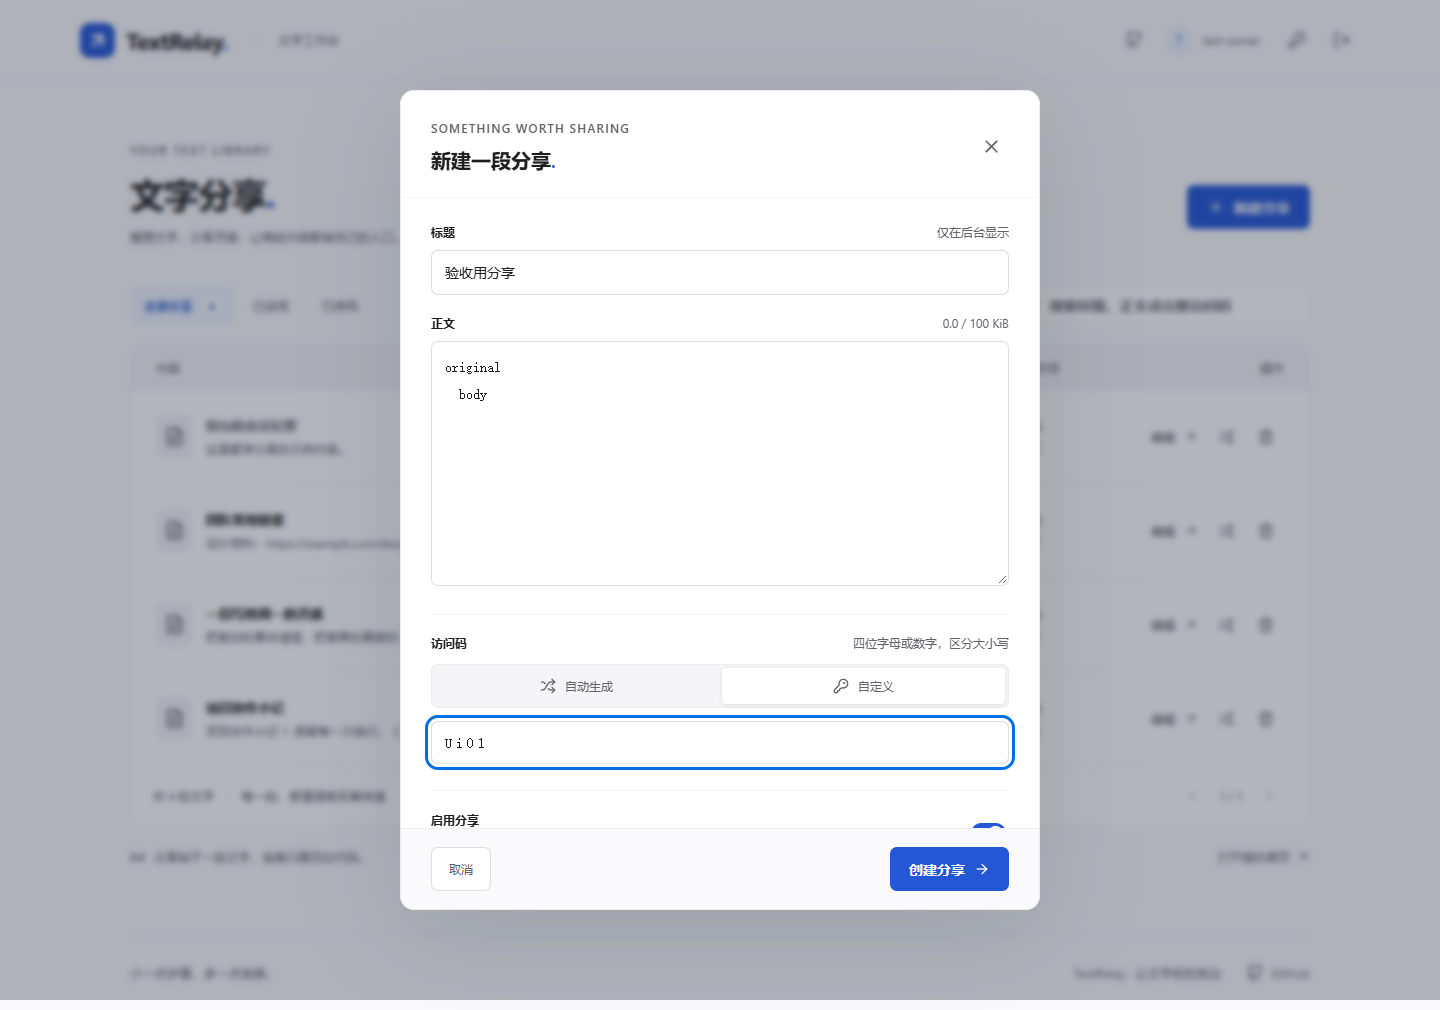
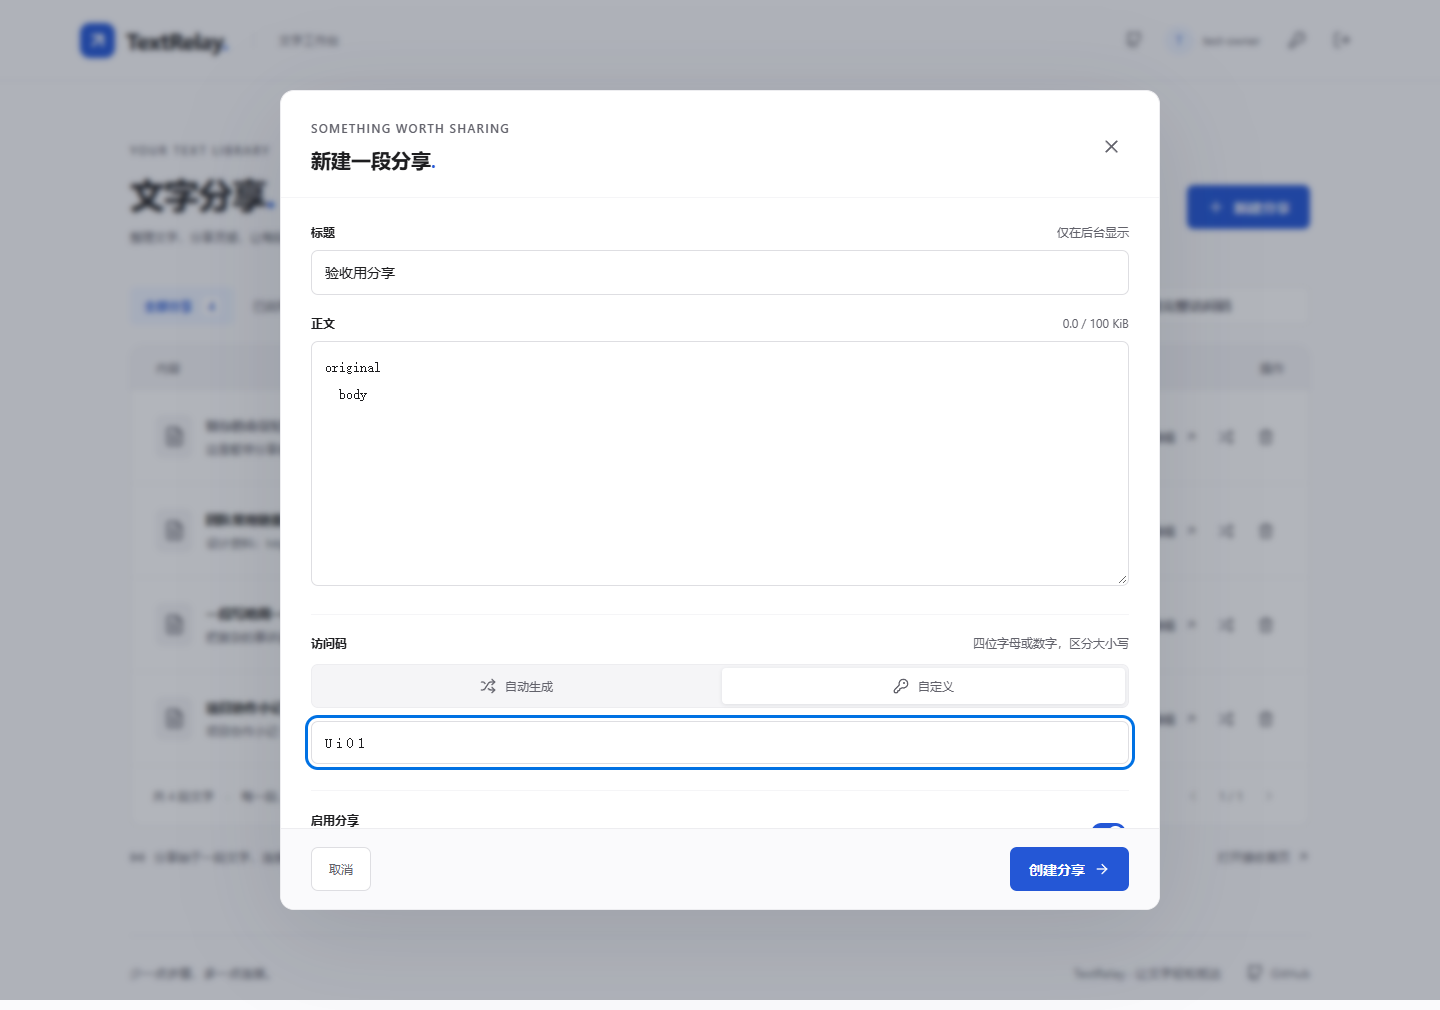
✨ feat(ui): 优化动效并加宽新建分享弹窗

diff --git a/tests/browser/flows.spec.ts b/tests/browser/flows.spec.ts
@@ -1,3 +1,4 @@
+import { settleMotion } from './motion';
 import { test, expect } from '@playwright/test';
 import { openDb } from '../../src/server/db.js';
 import { hashPassword } from '../../src/server/security.js';
@@ -50,6 +51,7 @@ test('desktop public reading, exact clipboard and safe plain-text rendering', as
   await page.goto('/');
   await expect(page.getByRole('heading', { name: '让文字， 轻松抵达。' })).toBeVisible();
   expect(await page.locator('#access-code').getAttribute('autocapitalize')).toBe('none');
+  await settleMotion(page);
   await page.screenshot({ path: 'docs/evidence/public-desktop.png', fullPage: true });
   await page.getByLabel('访问码 区分大小写').fill('Ab12');
   await page.getByRole('button', { name: '查看内容' }).click();
@@ -89,6 +91,7 @@ test('desktop public reading, exact clipboard and safe plain-text rendering', as
   await page.keyboard.press(process.platform === 'darwin' ? 'Meta+V' : 'Control+V');
   await expect(pasteTarget).toHaveValue(body);
   await pasteTarget.evaluate((element) => element.remove());
+  await settleMotion(page);
   await page.screenshot({ path: 'docs/evidence/reader-desktop.png', fullPage: true });
   expect(errors).toEqual([]);
 });
@@ -103,12 +106,14 @@ async function login(page: any) {
 test('desktop admin create, edit, search, toggle, rotate, reuse and delete', async ({ page }) => {
   await page.setViewportSize({ width: 1440, height: 1000 });
   await login(page);
+  await settleMotion(page);
   await page.screenshot({ path: 'docs/evidence/manage-desktop.png', fullPage: true });
   await page.getByRole('button', { name: '新建分享', exact: true }).first().click();
   await page.getByLabel('标题 仅在后台显示').fill('验收用分享');
   await page.getByRole('textbox', { name: /^正文/ }).fill('original\n  body');
   await page.getByRole('button', { name: '自定义', exact: true }).click();
   await page.getByLabel('访问码 四位字母或数字，区分大小写').fill('Ui01');
+  await settleMotion(page);
   await page.screenshot({ path: 'docs/evidence/editor-desktop.png', fullPage: true });
   await page.getByRole('button', { name: '创建分享', exact: true }).click();
   const row = page.locator('.share-row').filter({ hasText: '验收用分享' });
@@ -134,27 +139,32 @@ test('desktop admin create, edit, search, toggle, rotate, reuse and delete', asy
   await expect(row).toHaveCount(0);
   await page.getByRole('textbox', { name: '搜索分享' }).fill('无匹配项');
   await expect(page.getByText('没有找到相关文字')).toBeVisible();
+  await settleMotion(page);
   await page.screenshot({ path: 'docs/evidence/search-empty.png', fullPage: true });
 });
 test('mobile layout, full-screen editor and keyboard dialog focus', async ({ page }) => {
   await page.setViewportSize({ width: 390, height: 844 });
   await login(page);
+  await settleMotion(page);
   await page.screenshot({ path: 'docs/evidence/manage-mobile.png', fullPage: true });
   expect(await page.evaluate(() => document.documentElement.scrollWidth <= innerWidth)).toBe(true);
   await page.getByRole('button', { name: '新建分享', exact: true }).first().click();
   await expect(page.getByRole('dialog', { name: '新建分享' })).toBeVisible();
   await page.getByLabel('标题 仅在后台显示').fill('手机测试');
+  await settleMotion(page);
   await page.screenshot({ path: 'docs/evidence/editor-mobile.png', fullPage: false });
   expect(await page.evaluate(() => document.documentElement.scrollWidth <= innerWidth)).toBe(true);
   await page.keyboard.press('Escape');
   await page.getByRole('button', { name: '放弃更改' }).click();
   await expect(page.getByRole('dialog')).toHaveCount(0);
   await page.goto('/');
+  await settleMotion(page);
   await page.screenshot({ path: 'docs/evidence/public-mobile.png', fullPage: true });
   expect(await page.evaluate(() => document.documentElement.scrollWidth <= innerWidth)).toBe(true);
   await page.getByLabel('访问码 区分大小写').fill('Ab12');
   await page.getByRole('button', { name: '查看内容' }).click();
   await expect(page.locator('.plain-text')).toBeVisible();
+  await settleMotion(page);
   await page.screenshot({ path: 'docs/evidence/reader-mobile.png', fullPage: true });
 });
 test('search ignores stale replies after a newer query', async ({ page }) => {

diff --git a/src/client/main.tsx b/src/client/main.tsx
@@ -727,14 +727,20 @@ function Dialog({
   label,
   drawer = false,
   className = '',
+  exiting = false,
+  onExited,
 }: {
   children: React.ReactNode;
   close: () => void;
   label: string;
   drawer?: boolean;
   className?: string;
+  exiting?: boolean;
+  onExited?: () => void;
 }) {
   const ref = useRef<HTMLDialogElement>(null);
+  const exitCallback = useRef(onExited);
+  exitCallback.current = onExited;
   useEffect(() => {
     const el = ref.current!,
       previousFocus = document.activeElement as HTMLElement | null;
@@ -742,26 +748,67 @@ function Dialog({
     dialogCount++;
     document.body.style.overflow = 'hidden';
     el.showModal();
+    const reduced = matchMedia('(prefers-reduced-motion: reduce)');
+    if (!drawer && !reduced.matches) {
+      el.animate(
+        [
+          { opacity: 0, transform: 'translateY(8px) scale(0.99)' },
+          { opacity: 1, transform: 'none' },
+        ],
+        { duration: 220, easing: 'cubic-bezier(0.2, 0, 0, 1)' },
+      );
+    }
+    const stopMotion = () => {
+      if (reduced.matches) el.getAnimations().forEach((a) => a.cancel());
+    };
+    reduced.addEventListener('change', stopMotion);
     el.querySelector<HTMLElement>('[data-dialog-initial-focus]')?.focus();
     return () => {
+      reduced.removeEventListener('change', stopMotion);
+      el.getAnimations().forEach((a) => a.cancel());
       el.close();
       dialogCount--;
       if (dialogCount === 0) document.body.style.overflow = originalBodyOverflow;
       if (previousFocus?.isConnected) previousFocus.focus();
     };
   }, []);
+  useEffect(() => {
+    if (!exiting) return;
+    const el = ref.current!;
+    let active = true;
+    const current = getComputedStyle(el);
+    const start = { opacity: current.opacity, transform: current.transform };
+    el.getAnimations()
+      .filter((a) => !(a instanceof CSSAnimation))
+      .forEach((a) => a.cancel());
+    const animation = matchMedia('(prefers-reduced-motion: reduce)').matches
+      ? null
+      : el.animate([start, { opacity: '0', transform: 'translateY(4px) scale(0.995)' }], {
+          duration: 150,
+          easing: 'ease-out',
+          fill: 'forwards',
+        });
+    Promise.allSettled(animation ? [animation.finished] : []).then(() => {
+      if (active) exitCallback.current?.();
+    });
+    return () => {
+      active = false;
+      animation?.cancel();
+    };
+  }, [exiting]);
   return (
     <dialog
       className={`${drawer ? 'drawer' : 'modal'} ${className}`.trim()}
       ref={ref}
       aria-label={label}
+      data-exiting={exiting || undefined}
       onCancel={(e) => {
         e.stopPropagation();
         e.preventDefault();
-        close();
+        if (!exiting) close();
       }}
       onClick={(e) => {
-        if (e.target === e.currentTarget) close();
+        if (!exiting && e.target === e.currentTarget) close();
       }}
     >
       {children}
@@ -770,14 +817,27 @@ function Dialog({
 }
 function Editor({
   share,
-  close,
-  saved,
+  close: onClose,
+  saved: onSaved,
 }: {
   share: Share | 'new';
   close: () => void;
   saved: () => void;
 }) {
   const existing = share !== 'new';
+  const [exiting, setExiting] = useState(false);
+  const afterExit = useRef(onClose);
+  const dismiss = (action: () => void) => {
+    if (existing) {
+      action();
+      return;
+    }
+    if (exiting) return;
+    afterExit.current = action;
+    setExiting(true);
+  };
+  const close = () => dismiss(onClose);
+  const saved = () => dismiss(onSaved);
   const [title, setTitle] = useState(existing ? share.title : ''),
     [body, setBody] = useState(existing ? share.body : ''),
     [code, setCode] = useState(''),
@@ -824,8 +884,10 @@ function Editor({
       label={existing ? '编辑分享' : '新建分享'}
       drawer={existing}
       className={existing ? undefined : 'create-dialog'}
+      exiting={exiting}
+      onExited={() => afterExit.current()}
     >
-      <form onSubmit={save}>
+      <form onSubmit={save} inert={exiting}>
         <div className="drawer-header">
           <div>
             <div className="eyebrow">{existing ? 'EDIT YOUR TEXT' : 'SOMETHING WORTH SHARING'}</div>

diff --git a/tests/browser/visual.spec.ts b/tests/browser/visual.spec.ts
@@ -1,3 +1,4 @@
+import { settleMotion } from './motion';
 import { test, expect, type Page } from '@playwright/test';
 import { openDb } from '../../src/server/db.js';
 import { hashPassword } from '../../src/server/security.js';
@@ -90,11 +91,11 @@ for (const colorScheme of ['light', 'dark'] as const)
       await contrast(page);
       await page.locator('.login-card .primary').hover();
       await contrast(page);
-      if (colorScheme === 'light')
-        await page.screenshot({
-          path: `docs/evidence/login-${width === 320 ? 'mobile' : 'desktop'}.png`,
-          fullPage: true,
-        });
+      await settleMotion(page);
+      await page.screenshot({
+        path: `docs/evidence/login-${width === 320 ? 'mobile' : 'desktop'}.png`,
+        fullPage: true,
+      });
       await owner(page);
       await contrast(page);
       const trigger = page.locator('.dashboard-top .primary');
@@ -114,10 +115,10 @@ for (const colorScheme of ['light', 'dark'] as const)
       expect(await page.evaluate(() => document.documentElement.scrollWidth <= innerWidth)).toBe(
         true,
       );
-      if (colorScheme === 'light')
-        await page.screenshot({
-          path: `docs/evidence/create-${width === 320 ? 'mobile' : 'desktop'}.png`,
-        });
+      await settleMotion(page);
+      await page.screenshot({
+        path: `docs/evidence/create-${width === 320 ? 'mobile' : 'desktop'}.png`,
+      });
       await page.keyboard.press('Escape');
       const discard = page.getByRole('dialog', { name: '放弃未保存的更改', exact: true });
       await expect(discard).toBeVisible();
@@ -140,3 +141,54 @@ for (const colorScheme of ['light', 'dark'] as const)
       await page.keyboard.press('Escape');
     });
   }
+
+for (const reducedMotion of ['no-preference', 'reduce'] as const) {
+  test(`modal motion lifecycle: ${reducedMotion}`, async ({ page }) => {
+    await page.emulateMedia({ reducedMotion });
+    await page.setViewportSize({ width: 1440, height: 1000 });
+    await owner(page);
+    if (reducedMotion === 'no-preference') {
+      const session = await page.context().newCDPSession(page);
+      await session.send('Animation.enable');
+      await session.send('Animation.setPlaybackRate', { playbackRate: 0.1 });
+    }
+    const trigger = page.locator('.dashboard-top .primary');
+    await trigger.click();
+    const modal = page.locator('.create-dialog');
+    await expect(modal).toHaveCSS('width', '880px');
+    if (reducedMotion === 'no-preference') {
+      const entry = await modal.evaluate(
+        (el) =>
+          el
+            .getAnimations()
+            .find((a) => !(a instanceof CSSAnimation))
+            ?.effect?.getTiming().duration,
+      );
+      expect(entry).toBe(220);
+    } else {
+      expect(await modal.evaluate((el) => el.getAnimations().length)).toBe(0);
+    }
+    await expect(modal).toHaveCSS('opacity', '1');
+    await modal.locator('.drawer-header button').click();
+    if (reducedMotion === 'no-preference') {
+      await expect(modal).toHaveAttribute('data-exiting', 'true');
+      const exit = await modal.evaluate(
+        (el) =>
+          el
+            .getAnimations()
+            .find((a) => !(a instanceof CSSAnimation))
+            ?.effect?.getTiming().duration,
+      );
+      expect(exit).toBe(150);
+      // Changing the system setting mid-exit must still finish dismissal.
+      await page.emulateMedia({ reducedMotion: 'reduce' });
+    }
+    await expect(modal).toHaveCount(0);
+    await expect(trigger).toBeFocused();
+    expect(await page.evaluate(() => document.body.style.overflow)).toBe('');
+    await trigger.click();
+    await page.keyboard.press('Escape');
+    await expect(modal).toHaveCount(0);
+    await expect(trigger).toBeFocused();
+  });
+}

diff --git a/src/client/style.css b/src/client/style.css
@@ -1763,7 +1763,7 @@ dialog::backdrop {
   inset: 0;
   margin: auto;
   padding: 0;
-  width: 640px;
+  width: 880px;
   max-width: calc(100% - 32px);
   height: min(820px, calc(100dvh - 48px));
   max-height: calc(100dvh - 48px);
@@ -1792,5 +1792,69 @@ dialog {
     max-width: calc(100% - 24px);
     height: min(820px, calc(100dvh - 24px));
     max-height: calc(100dvh - 24px);
+  }
+}
+
+/* Motion only follows deliberate actions; routine list work stays quiet. */
+@media (prefers-reduced-motion: no-preference) {
+  dialog.modal[open]::backdrop {
+    animation: veil-in 180ms ease-out;
+  }
+  dialog.modal[data-exiting]::backdrop {
+    animation: veil-out 150ms ease-out forwards;
+  }
+  .primary,
+  .secondary,
+  .danger-button {
+    transition:
+      background-color 140ms ease-out,
+      color 140ms ease-out,
+      scale 140ms ease-out;
+  }
+  .primary:active:not(:disabled),
+  .secondary:active:not(:disabled),
+  .danger-button:active:not(:disabled) {
+    scale: 0.96;
+  }
+  .input,
+  .code-field,
+  .search-box {
+    transition:
+      border-color 140ms ease-out,
+      box-shadow 140ms ease-out;
+  }
+  .share-row {
+    transition: background-color 100ms ease-out;
+  }
+  .switch {
+    transition: background-color 140ms ease-out;
+  }
+  .reader-card {
+    animation: content-in 220ms ease-out;
+  }
+  .toast {
+    animation: content-in 180ms ease-out;
+  }
+}
+@keyframes veil-in {
+  from {
+    background-color: transparent;
+    backdrop-filter: blur(0);
+  }
+}
+@keyframes veil-out {
+  to {
+    background-color: transparent;
+    backdrop-filter: blur(0);
+  }
+}
+@keyframes content-in {
+  from {
+    opacity: 0;
+    translate: 0 4px;
+  }
+  to {
+    opacity: 1;
+    translate: 0 0;
   }
 }

diff --git a/tests/browser/motion.ts b/tests/browser/motion.ts
@@ -1,0 +1,11 @@
+import type { Page } from '@playwright/test';
+export async function settleMotion(page: Page) {
+  await page.evaluate(async () => {
+    await Promise.allSettled(
+      document
+        .getAnimations()
+        .filter((a) => a.effect?.getTiming().iterations !== Infinity)
+        .map((a) => a.finished),
+    );
+  });
+}
